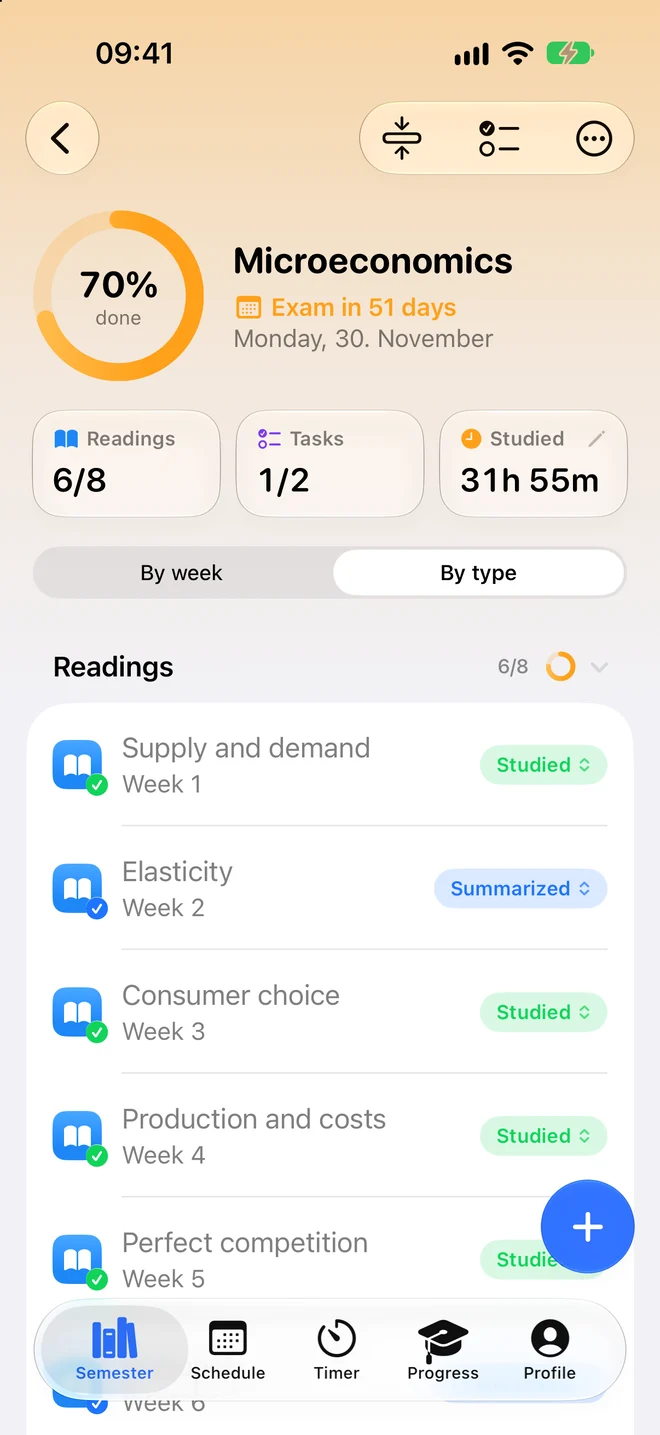
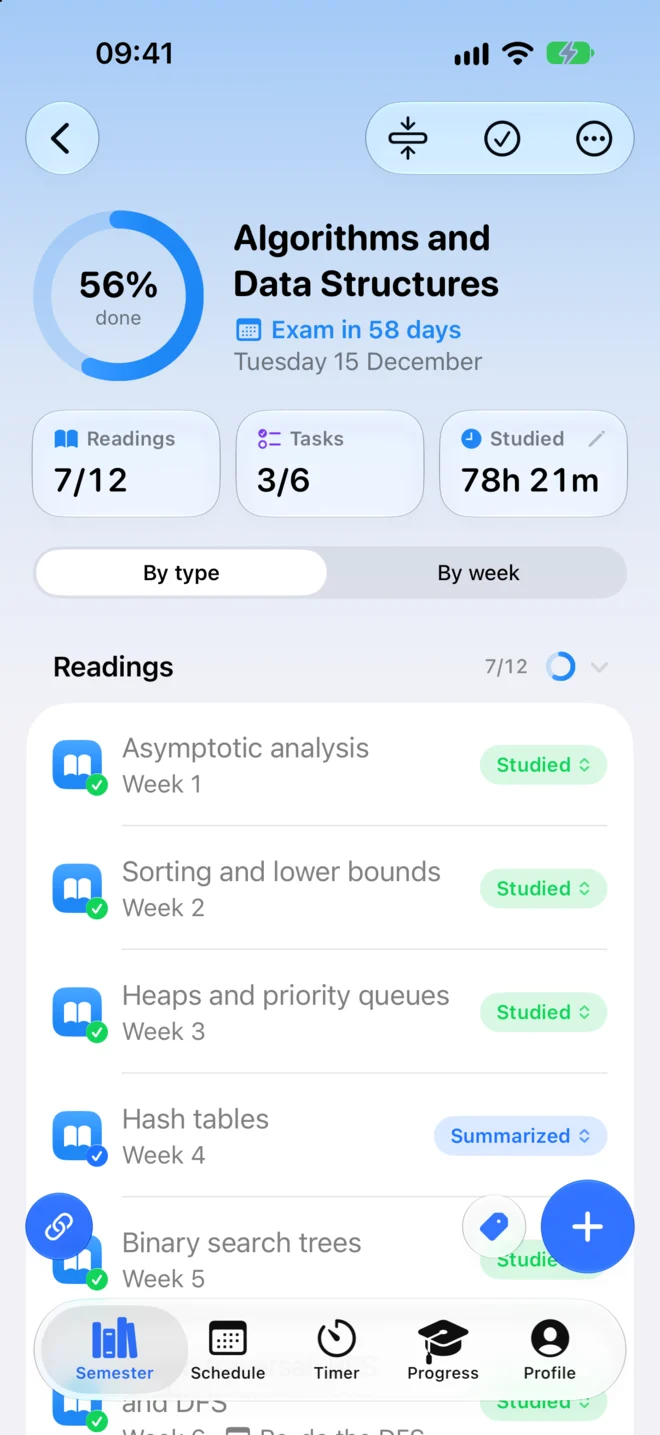
[#] retake the screenshots in the app's current design

diff --git a/index.html b/index.html
@@ -36,7 +36,7 @@
 <div class="hero-shot">
 <picture>
 <source srcset="images/mac-dark.webp" media="(prefers-color-scheme: dark)">
-<img class="mac" src="images/mac-course.webp" width="2000" height="1250" alt="Lectio on the Mac: the week view of a course next to the semester's courses and what is due next">
+<img class="mac" src="images/mac-course.webp" width="2000" height="1250" alt="Lectio on the Mac: a course's readings, tasks and other items next to the semester's courses and what is due next">
 </picture>
 <div class="phone hero-phone">
 <picture class="bezel">
@@ -56,10 +56,10 @@
 </div>
 <div class="visual stack reveal">
 <div class="ipad">
-<div class="bezel"><img src="images/ipad-breakdown.webp" width="1100" height="1467" alt="Lectio on iPad: a course's readings grouped by type, each with a status tag" loading="lazy"></div>
+<div class="bezel"><img src="images/ipad-breakdown.webp" width="1100" height="1467" alt="Lectio on iPad: the semester's courses beside a course's readings, each with a status tag" loading="lazy"></div>
 </div>
 <div class="phone stack-phone">
-<div class="bezel"><img src="images/iphone-semester.webp" width="660" height="1435" alt="Lectio on iPhone: the current week, tasks due next and course progress" loading="lazy"></div>
+<div class="bezel"><img src="images/iphone-semester.webp" width="660" height="1435" alt="Lectio on iPhone: the current week, what is due next with its due time, and course progress" loading="lazy"></div>
 </div>
 </div>
 </section>
@@ -71,7 +71,7 @@
 <p>Lectures, exercises and exams on one timetable, with attendance a tap away.</p>
 </div>
 <div class="visual reveal">
-<img class="mac" src="images/mac-schedule.webp" width="2000" height="1250" alt="Lectio on the Mac: the weekly class timetable with colour-coded lectures and exercises" loading="lazy">
+<img class="mac" src="images/mac-schedule.webp" width="2000" height="1250" alt="Lectio on the Mac: the weekly class timetable with colour-coded lectures and exercises, and the tasks due each day" loading="lazy">
 </div>
 </section>
 
@@ -86,7 +86,7 @@
 <div class="bezel"><img src="images/iphone-timer.webp" width="660" height="1435" alt="Lectio on iPhone: a running pomodoro focus timer" loading="lazy"></div>
 </div>
 <div class="phone">
-<div class="bezel"><img src="images/iphone-study-time.webp" width="660" height="1435" alt="Lectio on iPhone: study time this week by day and by course" loading="lazy"></div>
+<div class="bezel"><img src="images/iphone-study-time.webp" width="660" height="1435" alt="Lectio on iPhone: today's study time by course, above the pomodoro timer" loading="lazy"></div>
 </div>
 </div>
 </section>

diff --git a/README.md b/README.md
@@ -21,10 +21,11 @@ GitHub Pages serves `main` from the repo root:
   local preview or if the site moves to another domain: add the new origin to
   `ALLOWED_ORIGINS` in the function first.
 - `images/` holds the app screenshots the page shows, taken from the app
-  repo's `screenshots/` (git-ignored there). The Mac shots are the window cut
-  out of its backdrop (2720×1700 at +80+30) with its corners made transparent,
-  so the page's drop shadow follows them; iPhone and iPad shots are only
-  scaled down, and the page draws their bezels. All are WebP (`cwebp -q 86`),
+  app on sample data (four semesters, made-up friends). The Mac shots are the
+  window itself at 1360×850 points, captured with its transparent corners
+  (`screencapture -o -l <window id>`), so the page's drop shadow follows
+  them; `mac-edit` is the Edit sheet cut out of such a window. iPhone and
+  iPad shots are only scaled down, and the page draws their bezels. All are WebP (`cwebp -q 86`),
   plus `og-image.jpg` for link previews. In dark mode the hero and Progress
   section swap to the dark shots (`<picture>` with `prefers-color-scheme`).
 - The icons (`icon-512.png`, `apple-touch-icon.png`, `favicon.png`) are the app
